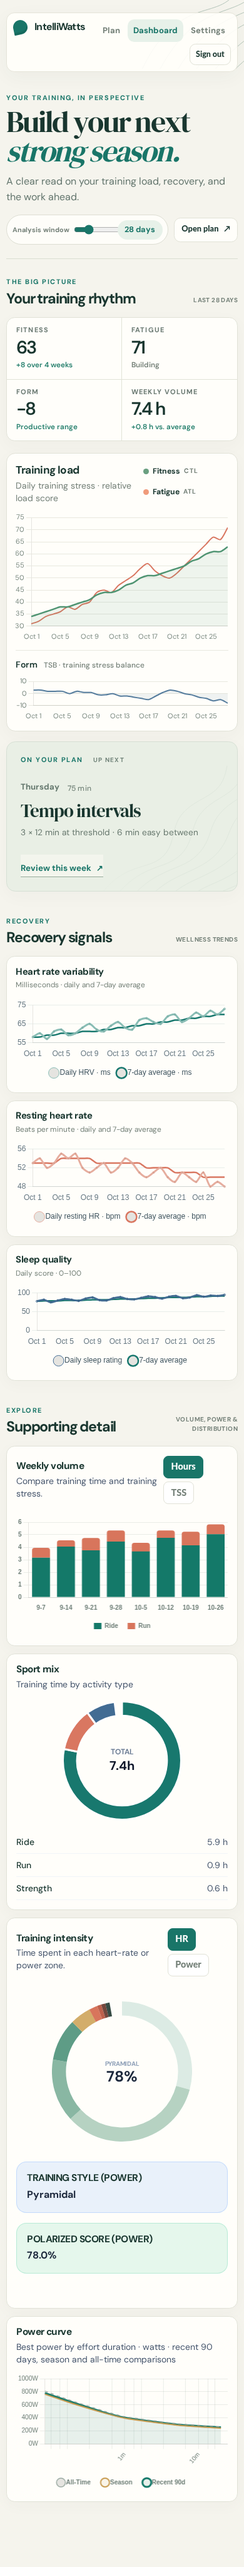
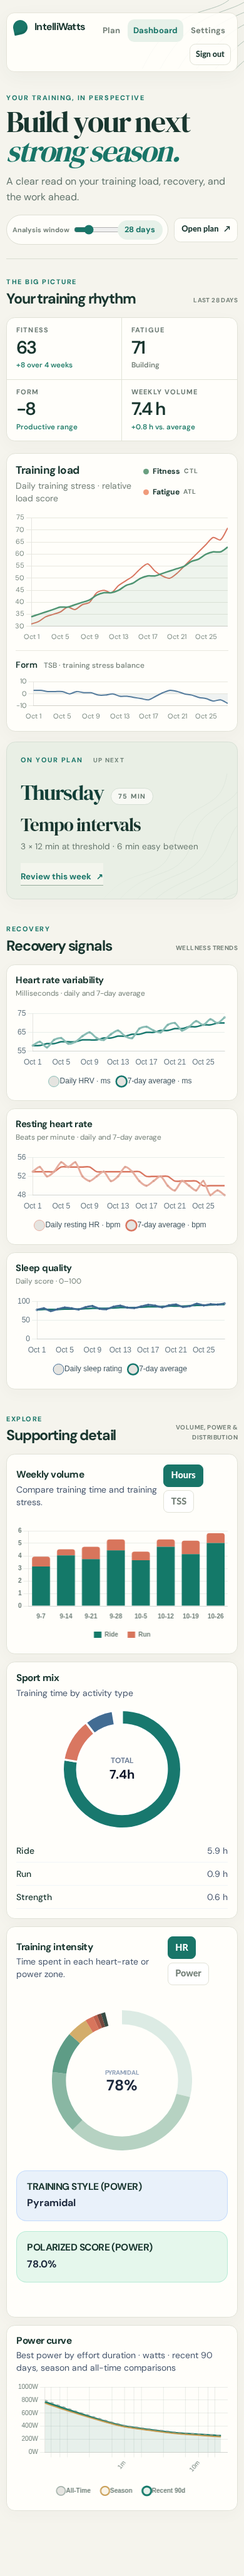
feat: refine next workout dashboard card

diff --git a/app/static/style-light.css b/app/static/style-light.css
@@ -322,6 +322,8 @@ h1, h2, h3, h4 { font-family: "DM Sans", "Avenir Next", Avenir, sans-serif; lett
 .dashboard-recovery .chart-frame, .wellness-sleep .chart-frame { height: 135px; }
 .dashboard-supporting-grid { gap: .75rem; }
 .dashboard-supporting-item .chart-card { border-radius: .85rem !important; box-shadow: 0 6px 24px #30443b08 !important; }
+.next-session-day { margin: clamp(2rem, 8vh, 3.6rem) 0 1rem; color: var(--teal-dark); font-family: "DM Serif Display", Georgia, serif; font-size: clamp(2.15rem, 2.6vw, 2.75rem); font-weight: 400; letter-spacing: -.045em; line-height: 1; }
+.next-session-day span { display: inline-flex; margin-top: .85rem; padding: .45rem .7rem; border: 1px solid #d5dfd4; border-radius: 999px; background: rgba(255,254,250,.68); color: #65786e; font-family: "DM Sans", "Avenir Next", Avenir, sans-serif; font-size: .67rem; font-weight: 700; letter-spacing: .1em; text-transform: uppercase; }
 @media (max-width: 900px) {
     .container { width: min(100% - 2rem, 1440px); }
     .dashboard-overview-grid { grid-template-columns: minmax(0, 1fr) 16rem; }
@@ -345,6 +347,7 @@ h1, h2, h3, h4 { font-family: "DM Sans", "Avenir Next", Avenir, sans-serif; lett
     .dashboard-load-chart .chart-frame { height: 210px; }
     .dashboard-load-chart .chart-frame.chart-frame-short { height: 75px; }
     .next-session { min-height: 15rem; }
-    .next-session-day { margin-top: 1.2rem; }
+    .next-session-day { margin: 1.3rem 0 .7rem; font-size: 2.15rem; }
+    .next-session-day span { margin-top: .6rem; }
     .dashboard-recovery { grid-template-columns: 1fr; }
 }

diff --git a/app/static/tailwind-light.css b/app/static/tailwind-light.css
@@ -1925,6 +1925,29 @@ h1, h2, h3, h4 {
   border-radius: .85rem !important;
   box-shadow: 0 6px 24px #30443b08 !important;
 }
+.next-session-day {
+  margin: clamp(2rem, 8vh, 3.6rem) 0 1rem;
+  color: var(--teal-dark);
+  font-family: "DM Serif Display", Georgia, serif;
+  font-size: clamp(2.15rem, 2.6vw, 2.75rem);
+  font-weight: 400;
+  letter-spacing: -.045em;
+  line-height: 1;
+}
+.next-session-day span {
+  display: inline-flex;
+  margin-top: .85rem;
+  padding: .45rem .7rem;
+  border: 1px solid #d5dfd4;
+  border-radius: 999px;
+  background: rgba(255,254,250,.68);
+  color: #65786e;
+  font-family: "DM Sans", "Avenir Next", Avenir, sans-serif;
+  font-size: .67rem;
+  font-weight: 700;
+  letter-spacing: .1em;
+  text-transform: uppercase;
+}
 @media (max-width: 900px) {
   .container {
     width: min(100% - 2rem, 1440px);
@@ -1993,7 +2016,11 @@ h1, h2, h3, h4 {
     min-height: 15rem;
   }
   .next-session-day {
-    margin-top: 1.2rem;
+    margin: 1.3rem 0 .7rem;
+    font-size: 2.15rem;
+  }
+  .next-session-day span {
+    margin-top: .6rem;
   }
   .dashboard-recovery {
     grid-template-columns: 1fr;

diff --git a/tests/routes/test_integration.py b/tests/routes/test_integration.py
@@ -441,25 +441,25 @@ def test_dashboard_flow(  # ruff: ignore[too-many-arguments, too-many-positional
     # THEN it should render successfully and contain widget info
     assert resp.status_code == 200
     body_text = bytes(resp.body).decode()
-    assert "Performance Center" in body_text
-    assert "control-surface" in body_text
-    assert "Plan impact" in body_text
-    assert "Headline trends" in body_text
-    assert "Supporting evidence" in body_text
+    assert "Your training rhythm" in body_text
+    assert "Training load" in body_text
+    assert "Recovery signals" in body_text
+    assert "Supporting detail" in body_text
     assert "More charts and comparisons" not in body_text
     assert "control-toggle-group" in body_text
-    assert "Open Planner" in body_text
+    assert "Open plan" in body_text
+    assert 'class="next-session-day"' in body_text
+    assert "Start with a fresh plan." in body_text
     assert "Recent Training" in body_text
-    assert "Performance Management" in body_text
-    assert "Wellness Trends" in body_text
-    assert body_text.index("Headline trends") < body_text.index("Performance Management")
-    assert body_text.index("Performance Management") < body_text.index("Supporting evidence")
-    assert body_text.index("Wellness Trends") < body_text.index("Supporting evidence")
+    assert "Heart rate variability" in body_text
+    assert "Training intensity" in body_text
+    assert body_text.index("Your training rhythm") < body_text.index("Training load")
+    assert body_text.index("Training load") < body_text.index("Recovery signals")
+    assert body_text.index("Recovery signals") < body_text.index("Supporting detail")
     assert "100 TSS" in body_text
-    assert "Training Intensity" in body_text
     assert "Highly Polarized" in body_text
-    assert "Critical Power Heatmap" in body_text
-    assert "Weekly Volume" in body_text
+    assert "Power curve" in body_text
+    assert "Weekly volume" in body_text
     assert "Recent Activity History" in body_text
     assert "Weekly Plan" not in body_text
 
